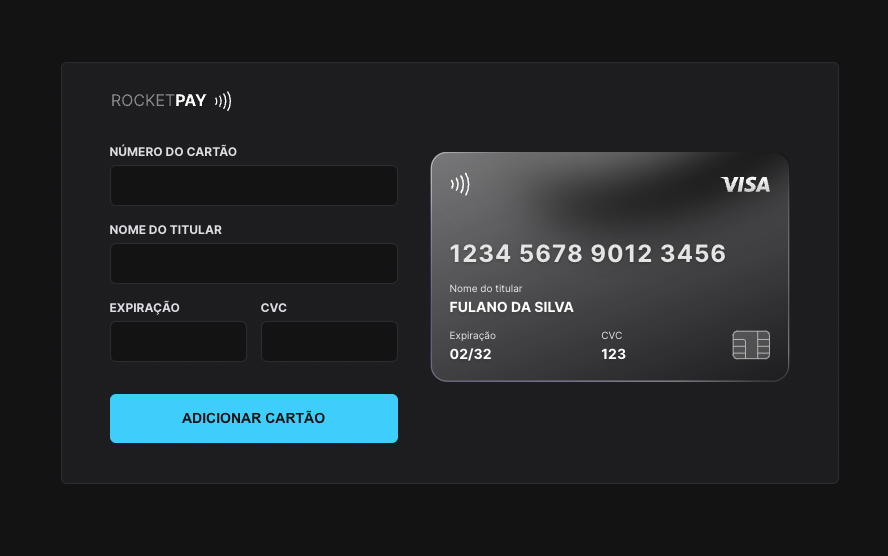
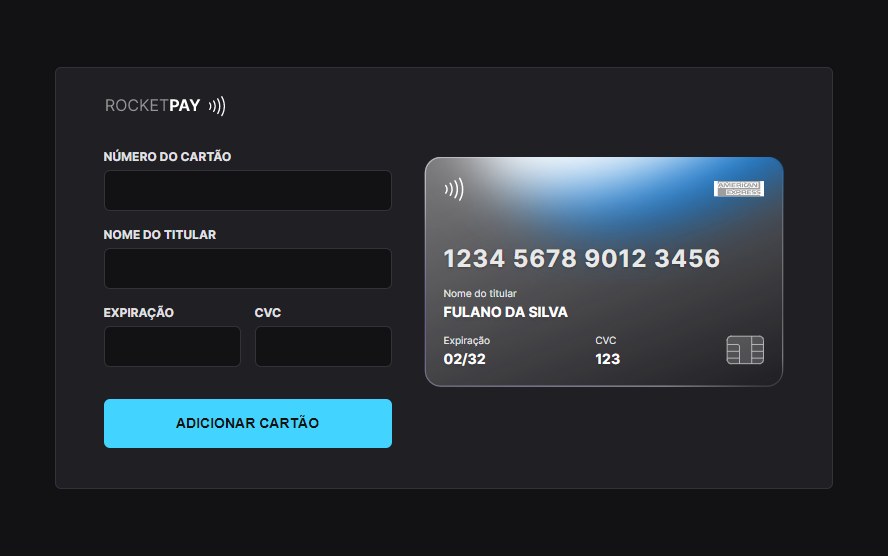
american express added and readme updated

diff --git a/src/main.js b/src/main.js
@@ -9,6 +9,7 @@ function setCardType(type) {
   const colors = {
     visa: ["#2D57F2", "#2D57F2"],
     mastercard: ["#DF6F29", "#DF6F29"],
+    americanExpress: ["#016FD0", "#FFFFFF"],
     default: ["black", "gray"],
   }
   ccBgColor01.setAttribute("fill", colors[type][0])
@@ -52,6 +53,11 @@ const cardNumberPattern = {
       mask: "0000 0000 0000 0000",
       regex: /(^5[1-5]\d{0,2}|^22[2-9]\d|^2[3-7]\d{0,2})\d{0,12}/,
       cardtype: "mastercard",
+    },
+    {
+      mask: "0000 000000 00000",
+      regex: /^3[47]\d{0,13}/,
+      cardtype: "americanExpress",
     },
     {
       mask: "0000 0000 0000 0000",

diff --git a/README.md b/README.md
@@ -5,6 +5,10 @@ Aplicação desenvolvida em evento promovido pela Rocketseat para ensino de tecn
 </p>
 
 <p align="center">
+🔗 <a href="https://apppay-johnwilker.vercel.app">Clique aqui para acessar a página do projeto</a>
+</p>
+
+<p align="center">
   <a href="#-tecnologias">Tecnologias</a>&nbsp;&nbsp;&nbsp;|&nbsp;&nbsp;&nbsp;
   <a href="#-projeto">Projeto</a>&nbsp;&nbsp;&nbsp;|&nbsp;&nbsp;&nbsp;
   <a href="#-layout">Layout</a>&nbsp;&nbsp;&nbsp;|&nbsp;&nbsp;&nbsp;
